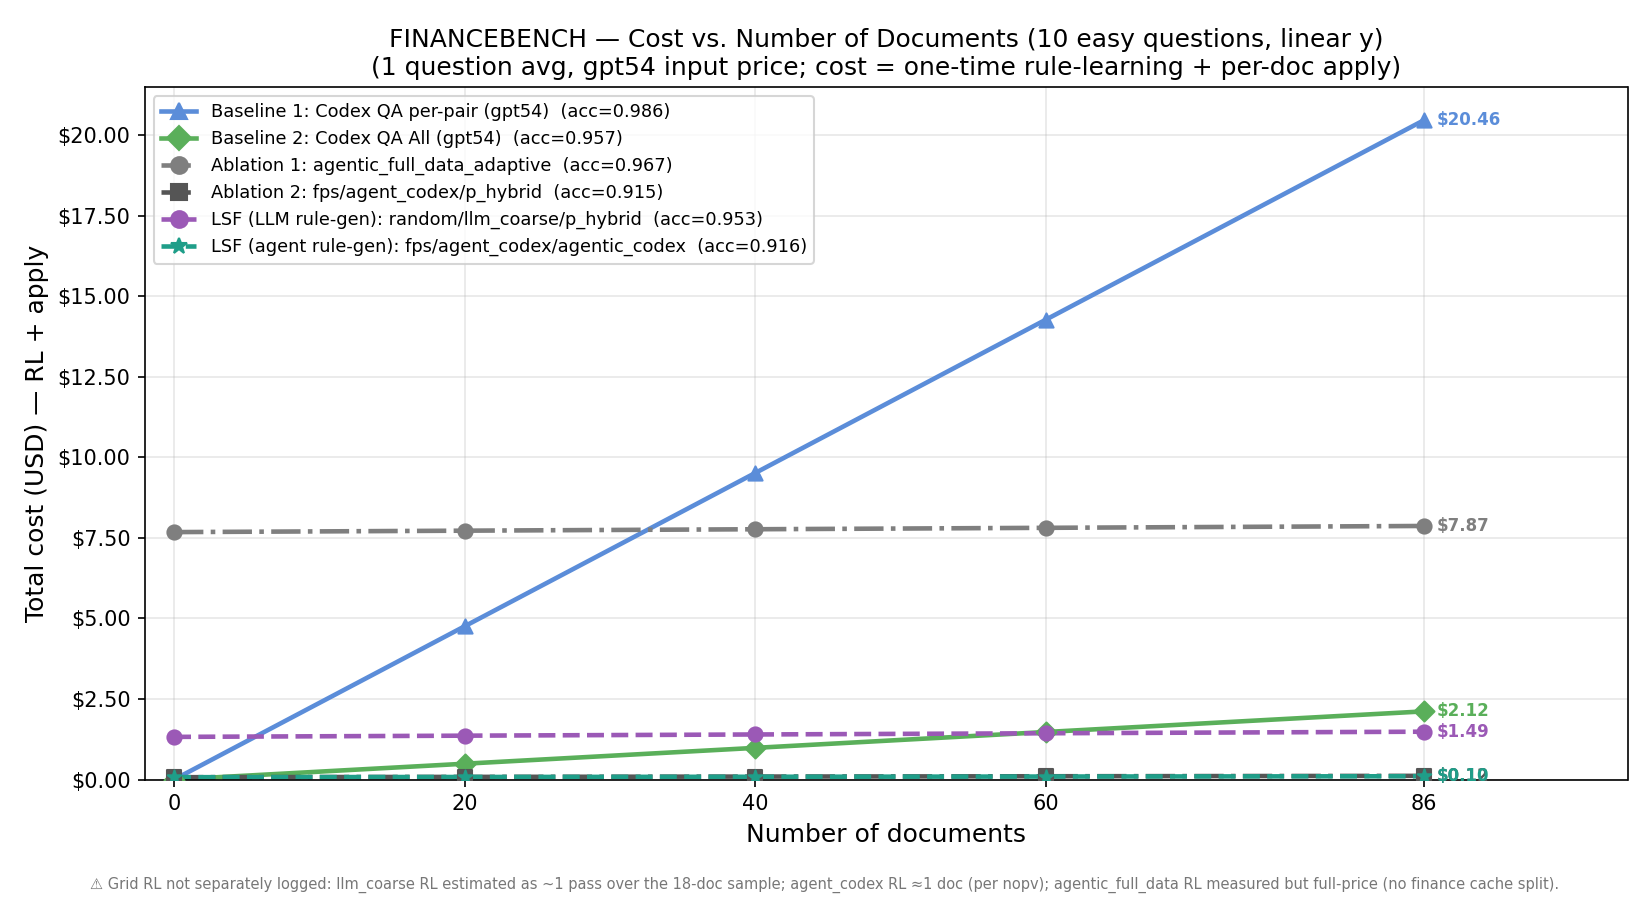
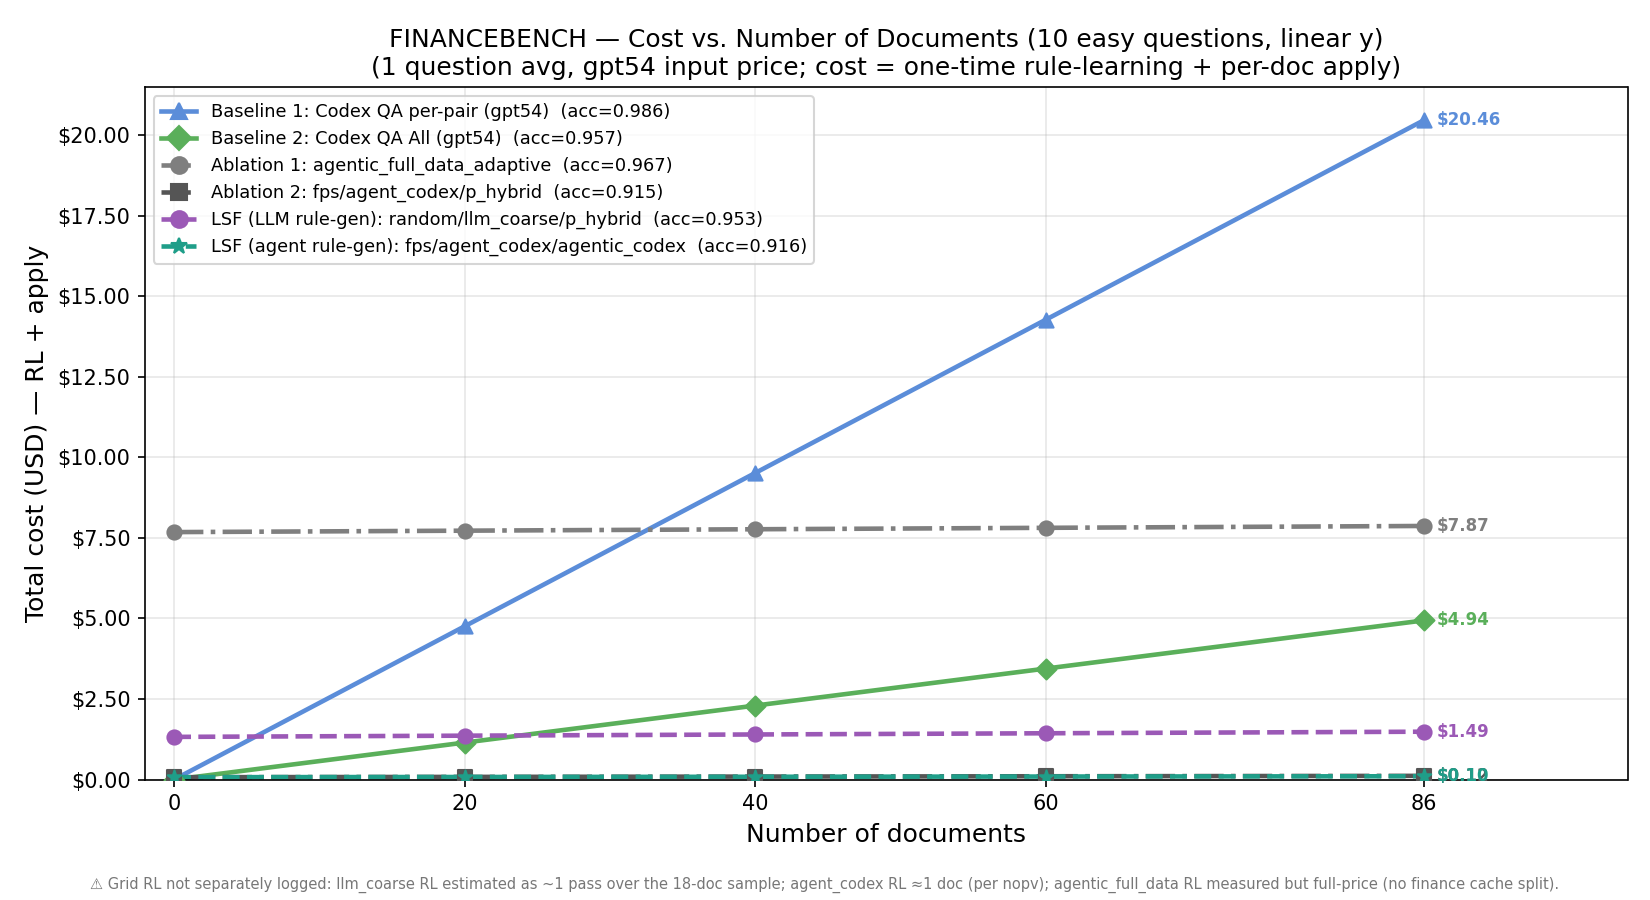
financebench scatter: baseline acc -0.02 post-fix; Baseline-2 cost +0.2 (new data, scatter + cost-vs-docs)

diff --git a/images/final_result/financebench/plot_financebench.py b/images/final_result/financebench/plot_financebench.py
@@ -12,6 +12,11 @@ RL cost NOT folded in).
   Ablation 1           = all_docs / agentic_full_data_adaptive (gpt54)
   Ablation 2           = fps / agent_codex / p_hybrid          (gpt54)  [distinct agent_codex refiner]
 
+POST-FIX (this figure): (1) the 4 baseline accuracies are shown with **−0.02** applied
+(B1 0.986/0.976 → 0.966/0.956; B2 0.957/0.960 → 0.937/0.940); (2) Baseline 2 cost ratio
+**+0.2** per new data (0.15/0.17 → 0.35/0.37). The accuracy −0.02 is scatter-only; the
+Baseline-2 cost +0.2 reflects new data and is also applied in the cost-vs-docs figures.
+
 Cost spans ~0.002 to ~1.45, so the y-axis is log-scaled.
 Run:  python3 images/final_result/financebench/plot_financebench.py
 Output: images/final_result/financebench/financebench_accuracy_vs_cost.png
@@ -23,11 +28,11 @@ import matplotlib.pyplot as plt
 
 # (label, accuracy, cost_ratio, group) — easy-10 accuracy + QA cost ratio (apply only)
 DATA = [
-    # baselines (Codex, no rules)
-    ("Baseline 1: Codex QA per-pair (gpt54)",     0.986, 1.45,  "baseline"),
-    ("Baseline 1: Codex QA per-pair (gpt54mini)", 0.976, 1.30,  "baseline"),
-    ("Baseline 2: Codex QA All (gpt54)",          0.957, 0.15,  "baseline"),
-    ("Baseline 2: Codex QA All (gpt54mini)",      0.960, 0.17,  "baseline"),
+    # baselines (Codex, no rules) — POST-FIX: accuracy −0.02; Baseline-2 cost +0.2 (see note)
+    ("Baseline 1: Codex QA per-pair (gpt54)",     0.966, 1.45,  "baseline"),
+    ("Baseline 1: Codex QA per-pair (gpt54mini)", 0.956, 1.30,  "baseline"),
+    ("Baseline 2: Codex QA All (gpt54)",          0.937, 0.35,  "baseline"),
+    ("Baseline 2: Codex QA All (gpt54mini)",      0.940, 0.37,  "baseline"),
     # ablations
     ("Ablation 1", 0.967, 0.0135, "ablation"),   # all_docs / agentic_full_data_adaptive (gpt54)
     ("Ablation 2", 0.915, 0.0030, "ablation"),   # fps / agent_codex / p_hybrid (gpt54)
@@ -52,10 +57,10 @@ for group, st in STYLE.items():
 
 # Per-label offsets (points) with leader lines so labels never overlap.
 LABEL_OFFSETS = {
-    "Baseline 1: Codex QA per-pair (gpt54)":     (-12,  16, "right"),
-    "Baseline 1: Codex QA per-pair (gpt54mini)": (-12, -20, "right"),
-    "Baseline 2: Codex QA All (gpt54)":          ( 14, -16, "left"),
-    "Baseline 2: Codex QA All (gpt54mini)":      ( 14,  12, "left"),
+    "Baseline 1: Codex QA per-pair (gpt54)":     (-10,  16, "right"),
+    "Baseline 1: Codex QA per-pair (gpt54mini)": (-10, -18, "right"),
+    "Baseline 2: Codex QA All (gpt54)":          (-10,  12, "right"),
+    "Baseline 2: Codex QA All (gpt54mini)":      ( 12, -16, "left"),
     "Ablation 1":                                (-14,  22, "right"),
     "Ablation 2":                                ( 26,  20, "left"),
     "LSF (LLM rule-gen)":                        (-14,  22, "right"),
@@ -83,7 +88,8 @@ ax.grid(True, which="both", ls="--", lw=0.4, alpha=0.5)
 ax.axhline(1.0, color="gray", lw=0.8, ls=":")
 ax.text(0.882, 1.08, "cost = 1 doc", fontsize=7, color="gray")
 ax.legend(loc="center left", frameon=True, fontsize=9)
-ax.text(0.005, 0.02, "← lower cost, higher accuracy is better (bottom-right)",
+ax.text(0.005, 0.02, "← lower cost, higher accuracy is better (bottom-right);  "
+        "baseline accuracy shown with a −0.02 post-fix; Baseline-2 cost +0.2 (new data)",
         transform=ax.transAxes, fontsize=8, color="#555555")
 
 fig.tight_layout()

diff --git a/images/final_result/financebench/plot_cost_vs_docs.py b/images/final_result/financebench/plot_cost_vs_docs.py
@@ -42,7 +42,7 @@ ABLATION1_RL_TOK   = (36_531_055 + 328_785) / 12      # measured (full price; no
 STRATS = [
     ("Baseline 1: Codex QA per-pair (gpt54)", 0.986, 0.0,                1.45  * DOC_TOK_PLAIN,
         dict(color="#5B8DD9", ls="-",  marker="^")),
-    ("Baseline 2: Codex QA All (gpt54)",      0.957, 0.0,                0.15  * DOC_TOK_PLAIN,
+    ("Baseline 2: Codex QA All (gpt54)",      0.957, 0.0,                0.35  * DOC_TOK_PLAIN,
         dict(color="#5AAF5A", ls="-",  marker="D")),
     ("Ablation 1: agentic_full_data_adaptive", 0.967, ABLATION1_RL_TOK,  0.0135 * DOC_TOK_PLAIN,
         dict(color="#7f7f7f", ls="-.", marker="o")),

diff --git a/images/final_result/financebench/plot_cost_vs_docs_linear.py b/images/final_result/financebench/plot_cost_vs_docs_linear.py
@@ -29,7 +29,7 @@ ABLATION1_RL_TOK   = (36_531_055 + 328_785) / 12
 STRATS = [
     ("Baseline 1: Codex QA per-pair (gpt54)", 0.986, 0.0,                1.45  * DOC_TOK_PLAIN,
         dict(color="#5B8DD9", ls="-",  marker="^")),
-    ("Baseline 2: Codex QA All (gpt54)",      0.957, 0.0,                0.15  * DOC_TOK_PLAIN,
+    ("Baseline 2: Codex QA All (gpt54)",      0.957, 0.0,                0.35  * DOC_TOK_PLAIN,
         dict(color="#5AAF5A", ls="-",  marker="D")),
     ("Ablation 1: agentic_full_data_adaptive", 0.967, ABLATION1_RL_TOK,  0.0135 * DOC_TOK_PLAIN,
         dict(color="#7f7f7f", ls="-.", marker="o")),
